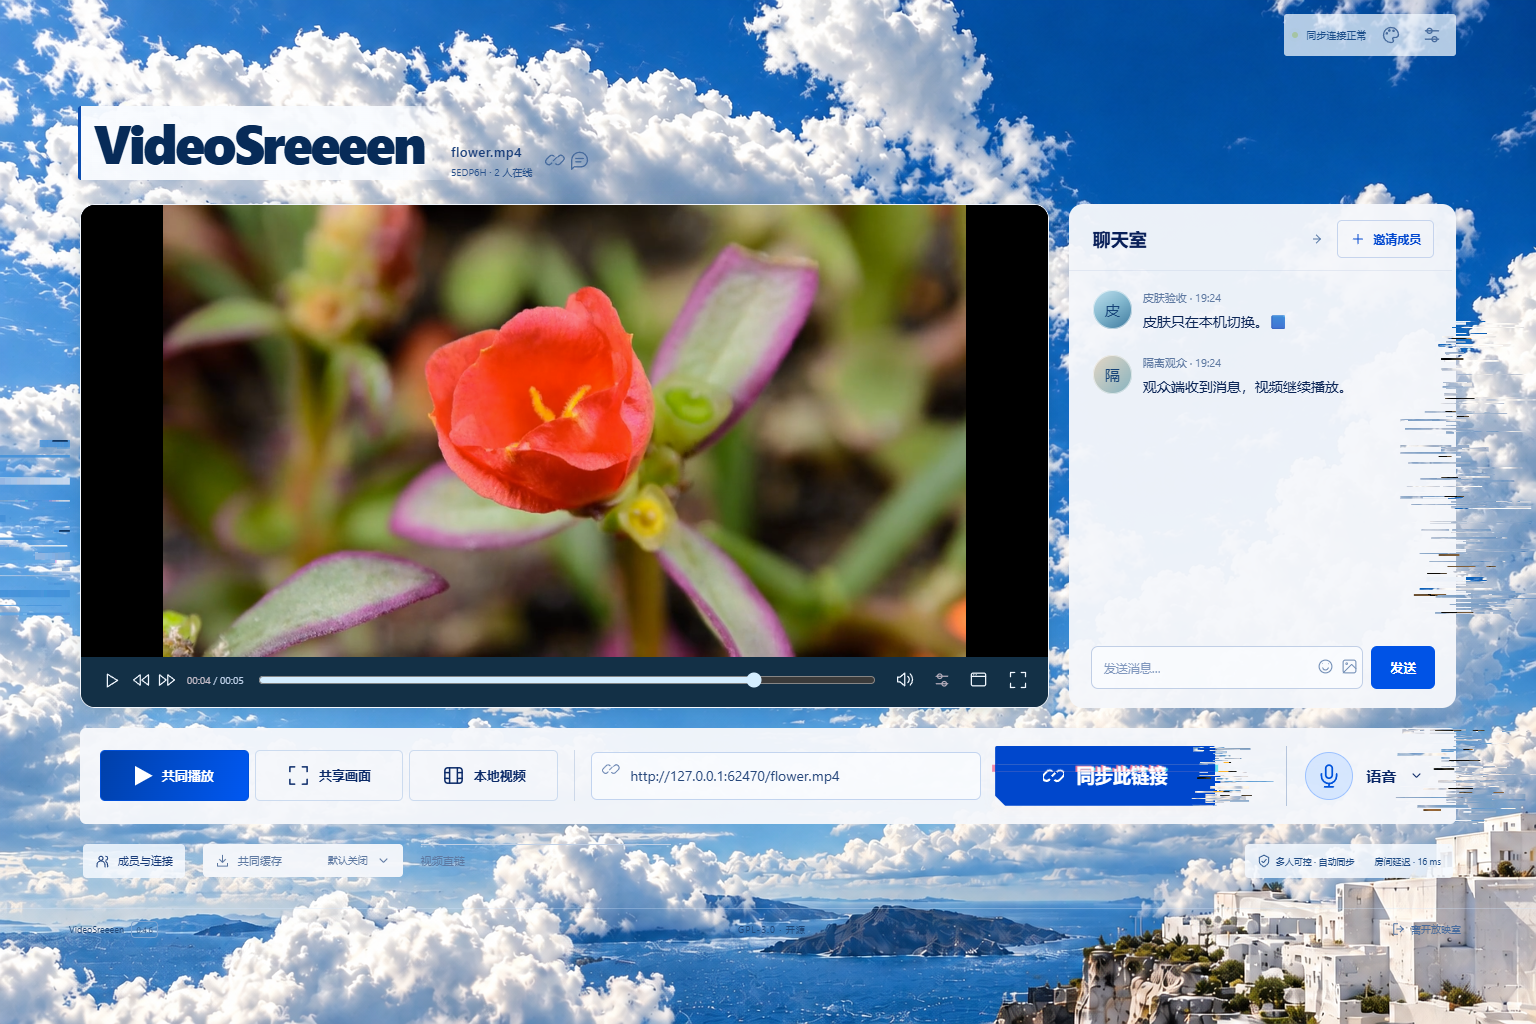
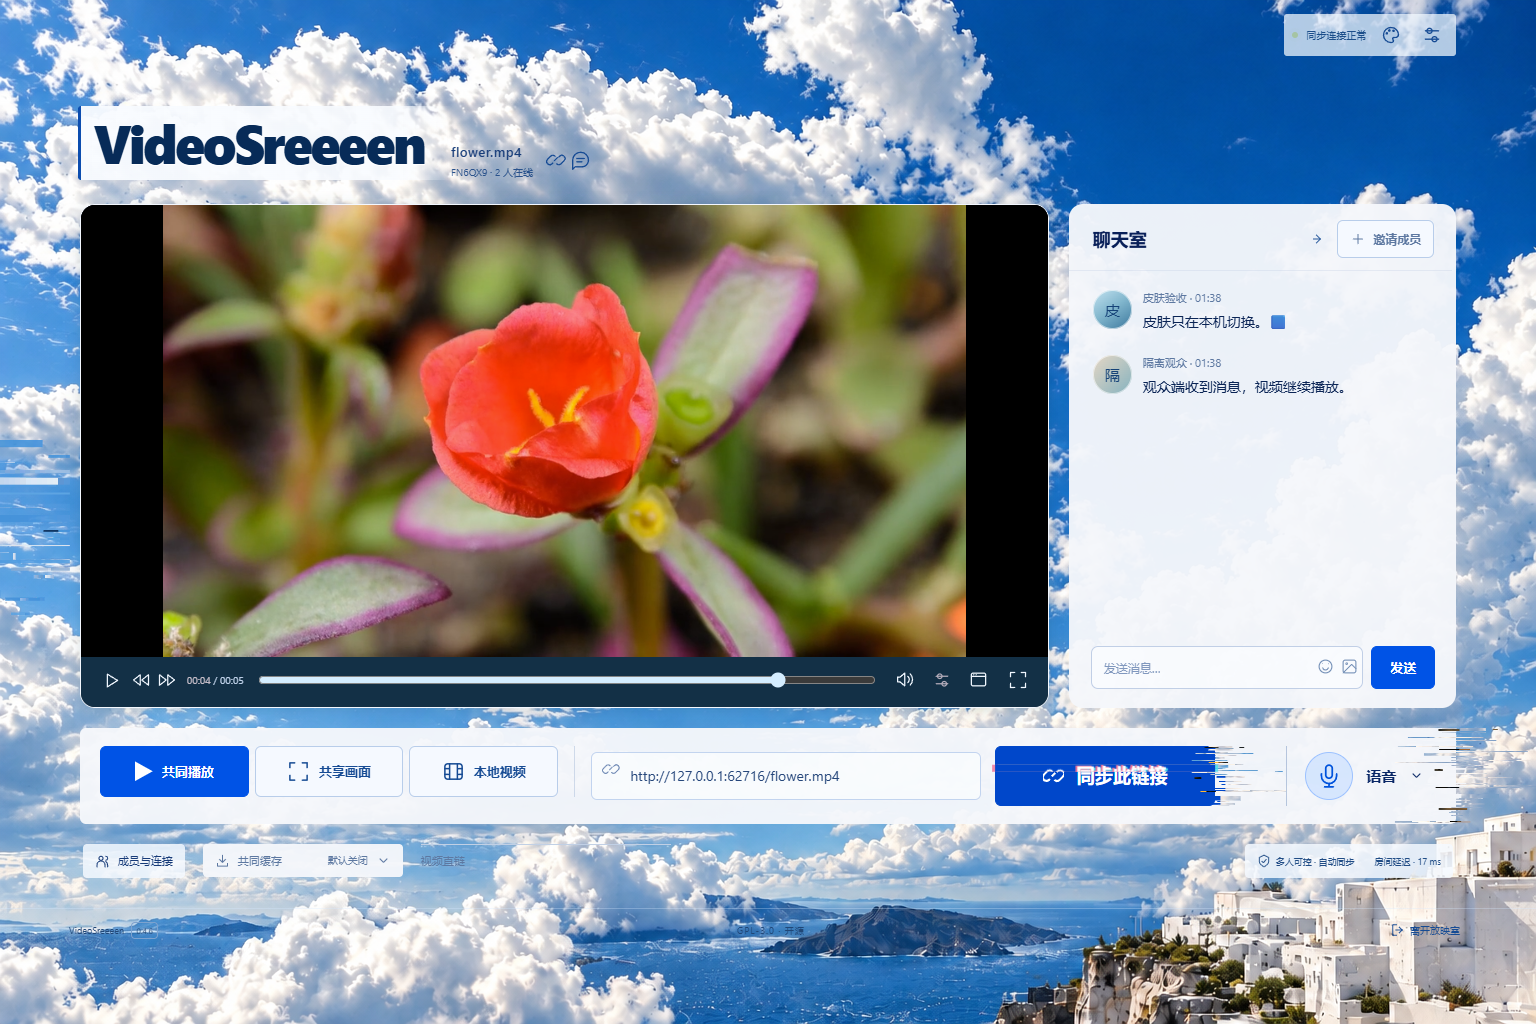
Unify Daylight controls and simplify theme option labels

diff --git a/scripts/daylight-controls-check.ts b/scripts/daylight-controls-check.ts
@@ -1,0 +1,160 @@
+import assert from 'node:assert/strict';
+import { once } from 'node:events';
+import { mkdir, writeFile } from 'node:fs/promises';
+import { chromium } from 'playwright';
+import { createApp } from '../server/index';
+import { closeInvitation } from './room-ui';
+
+const app = process.env.VS_PUBLIC_URL ? undefined : createApp();
+if (app) {
+  app.server.listen(0, '127.0.0.1');
+  await once(app.server, 'listening');
+}
+const origin =
+  process.env.VS_PUBLIC_URL || `http://127.0.0.1:${(app!.server.address() as any).port}`;
+const browser = await chromium.launch({
+  executablePath: 'C:/Program Files (x86)/Microsoft/Edge/Application/msedge.exe',
+  headless: true,
+  args: ['--mute-audio', '--disable-extensions', '--js-flags=--max-old-space-size=96'],
+  ...(process.env.VS_TEST_PROXY
+    ? { proxy: { server: process.env.VS_TEST_PROXY, bypass: 'localhost,127.0.0.1' } }
+    : {}),
+});
+const proof: any = {
+  at: new Date().toISOString(),
+  production: !!process.env.VS_PUBLIC_URL,
+  realPhone: false,
+  controls: [],
+  widths: [],
+};
+try {
+  const context = await browser.newContext({ viewport: { width: 1536, height: 1024 } });
+  await context.addInitScript(() => localStorage.setItem('videosreeeen.appearance', 'glitch'));
+  const page = await context.newPage();
+  const errors: string[] = [],
+    operations: string[] = [];
+  page.on('pageerror', (e) => errors.push(e.message));
+  page.on('websocket', (s) =>
+    s.on('framesent', ({ payload }) => {
+      try {
+        const m = JSON.parse(String(payload));
+        if (['media', 'control', 'mode', 'cache', 'unshare'].includes(m.type))
+          operations.push(m.type);
+      } catch {}
+    }),
+  );
+  await page.goto(origin);
+  await page.locator('#hero-create').click();
+  await page.locator('#name-input').fill('天光按钮验收');
+  await page.locator('#create-button').click();
+  await closeInvitation(page);
+  await page.evaluate(() => document.fonts.ready);
+  const inspect = async () => {
+    const styles = await page.locator('button, a.button').evaluateAll((nodes) =>
+      nodes
+        .filter((n) => n.checkVisibility() && !n.closest('.player-shell') && !n.matches('.switch'))
+        .map((n) => {
+          const s = getComputedStyle(n);
+          return {
+            id: n.id || n.getAttribute('data-close') || n.textContent?.trim().slice(0, 15),
+            radius: s.borderRadius,
+            border: s.borderWidth,
+            background: s.backgroundColor,
+            color: s.color,
+          };
+        }),
+    );
+    assert.ok(styles.length > 5);
+    for (const style of styles) assert.equal(style.radius, '6px', JSON.stringify(style));
+    proof.controls.push(...styles);
+  };
+  await page.mouse.move(1, 1);
+  await page.waitForTimeout(160);
+  await inspect();
+  const primary = ['#source-form .button', '#choose-link', '#send-button'];
+  for (const selector of primary) {
+    assert.equal(
+      await page.locator(selector).evaluate((n) => getComputedStyle(n).backgroundColor),
+      'rgb(0, 83, 230)',
+      selector,
+    );
+    await page.locator(selector).hover();
+    await page.waitForTimeout(180);
+    assert.equal(
+      await page.locator(selector).evaluate((n) => getComputedStyle(n).backgroundColor),
+      'rgb(0, 71, 202)',
+      selector,
+    );
+    await page.mouse.move(1, 1);
+    await page.waitForTimeout(160);
+  }
+  await page.locator('.daylight-voice > summary').click();
+  await inspect();
+  assert.equal(
+    await page.locator('#voice-join').evaluate((n) => getComputedStyle(n).backgroundColor),
+    'rgb(0, 83, 230)',
+  );
+  await page.locator('.daylight-voice > summary').click();
+  await page.locator('#invite-button').click();
+  await inspect();
+  await closeInvitation(page);
+  await page.locator('#appearance-button').click();
+  await inspect();
+  for (const [value, name] of [
+    ['glitch', '天光断层'],
+    ['signal', '紫电噪讯'],
+  ]) {
+    const choice = page.locator(`.theme-choice:has(input[value="${value}"])`);
+    assert.equal((await choice.locator('.theme-choice-name').innerText()).trim(), name);
+    assert.equal(await choice.locator('.theme-choice-name small').count(), 0);
+  }
+  await page.keyboard.press('Tab');
+  await page.locator('#appearance-random').focus();
+  assert.equal(
+    await page.locator('#appearance-random').evaluate((n) => getComputedStyle(n).outlineWidth),
+    '2px',
+  );
+  for (const width of [1536, 850, 390, 320]) {
+    await page.setViewportSize({ width, height: 1024 });
+    assert.equal(
+      await page.evaluate(() => document.documentElement.scrollWidth <= innerWidth),
+      true,
+    );
+    proof.widths.push(width);
+    await mkdir('.local/screenshots', { recursive: true });
+    if (width === 1536)
+      await page
+        .locator('#settings-dialog')
+        .screenshot({ path: '.local/screenshots/daylight-controls-settings.png' });
+  }
+  await page.locator('[data-close="settings-dialog"]').first().click();
+  await page.setViewportSize({ width: 1536, height: 1024 });
+  await page
+    .locator('#playback-picker')
+    .screenshot({ path: '.local/screenshots/daylight-controls-panel.png' });
+  assert.deepEqual(errors, []);
+  assert.deepEqual(operations, []);
+  proof.noRoomOperations = true;
+  proof.passed = true;
+  await page.locator('#leave-button').click();
+} catch (error) {
+  proof.error = String(error);
+  proof.passed = false;
+  throw error;
+} finally {
+  await browser.close();
+  await app?.close();
+  proof.browserClosed = true;
+  await writeFile(
+    `.local/daylight-controls-${process.env.VS_PUBLIC_URL ? 'public' : 'local'}-evidence.json`,
+    JSON.stringify(proof, null, 2) + '\n',
+  );
+  console.log(
+    JSON.stringify({
+      passed: proof.passed,
+      controls: proof.controls.length,
+      widths: proof.widths,
+      error: proof.error,
+    }),
+  );
+}

diff --git a/client/daylight-controls.css b/client/daylight-controls.css
@@ -1,0 +1,101 @@
+/* One control family; layout and touch targets remain owned by each component.
+   Playback controls keep their dark video surface and switches keep their shape. */
+:root[data-theme='glitch'] {
+  --daylight-control-radius: 6px;
+  --daylight-control-blue: #0053e6;
+  --daylight-control-ink: #164b94;
+  --daylight-control-line: #b8cdea;
+  --daylight-control-surface: #f5f9ff;
+  --daylight-control-hover: #e1edff;
+}
+:root[data-theme='glitch']
+  :is(button, a.button):not(
+    :where(.transport *, .stage-tools *, .player-settings-panel *, .switch)
+  ) {
+  border: 1px solid transparent;
+  border-radius: var(--daylight-control-radius);
+  background: transparent;
+  color: var(--daylight-control-ink);
+  box-shadow: none;
+  transition:
+    background-color 120ms ease,
+    border-color 120ms ease,
+    color 120ms ease;
+}
+:root[data-theme='glitch']
+  :is(.button, .playback-tabs button, .room-tabs button, .site-chips button)
+  :where(svg) {
+  flex-shrink: 0;
+}
+:root[data-theme='glitch']
+  :is(
+    .button,
+    .playback-tabs button,
+    .room-tabs button,
+    .site-chips button,
+    .chat-restore,
+    .invite-line
+  ):not(:where(.transport *, .stage-tools *, .player-settings-panel *)) {
+  border-color: var(--daylight-control-line);
+  background: var(--daylight-control-surface);
+  color: var(--daylight-control-ink);
+}
+:root[data-theme='glitch']
+  :is(
+    .accent,
+    .send-button,
+    .playback-tabs button[aria-selected='true'],
+    .room-tabs button[aria-pressed='true']
+  ):not(:where(.transport *, .stage-tools *, .player-settings-panel *)) {
+  background: var(--daylight-control-blue);
+  border-color: var(--daylight-control-blue);
+  color: #fff;
+}
+:root[data-theme='glitch']
+  :is(button, a.button):not(
+    :where(.transport *, .stage-tools *, .player-settings-panel *, .switch)
+  ):hover:not(:disabled) {
+  background: var(--daylight-control-hover);
+  border-color: #86afe7;
+  color: #003fb5;
+}
+:root[data-theme='glitch']
+  :is(
+    .accent,
+    .send-button,
+    .playback-tabs button[aria-selected='true'],
+    .room-tabs button[aria-pressed='true']
+  ):hover:not(:disabled) {
+  background: #0047ca;
+  border-color: #0047ca;
+  color: #fff;
+}
+:root[data-theme='glitch']
+  :is(button, a.button):not(
+    :where(.transport *, .stage-tools *, .player-settings-panel *, .switch)
+  ):focus-visible {
+  outline: 2px solid var(--daylight-control-blue);
+  outline-offset: 3px;
+}
+:root[data-theme='glitch'] .voice-actions :is(.active, .is-muted) {
+  background: #d9e7fb;
+  color: var(--daylight-control-ink);
+  border-color: #9dbce8;
+}
+:root[data-theme='glitch'] .switch {
+  background: #bdcde3;
+}
+:root[data-theme='glitch'] .switch[aria-checked='true'] {
+  background: var(--daylight-control-blue);
+}
+:root[data-theme='glitch'] :is(button, a.button):disabled {
+  opacity: 0.45;
+}
+:root[data-theme='glitch'] dialog .theme-choice {
+  border-radius: var(--daylight-control-radius);
+}
+@media (prefers-reduced-motion: reduce) {
+  :root[data-theme='glitch'] :is(button, a.button) {
+    transition: none;
+  }
+}

diff --git a/client/appearance.ts b/client/appearance.ts
@@ -9,8 +9,8 @@ const preferenceKey = 'videosreeeen.appearance';
 const sessionKey = 'videosreeeen.appearance.session';
 const names: Record<Theme, string> = {
   classic: '暖夜 · 原版',
-  glitch: '天光断层 · Glitch Art',
-  signal: '紫电噪讯 · C',
+  glitch: '天光断层',
+  signal: '紫电噪讯',
 };
 const valid = (value: string | null): value is Theme => themes.includes(value as Theme);
 function read(kind: 'localStorage' | 'sessionStorage', key: string) {
@@ -85,8 +85,8 @@ export function setupAppearance(settings: HTMLElement) {
       <div class="appearance-heading"><h3 id="appearance-title">界面皮肤</h3><span>仅本机</span></div>
       <fieldset class="theme-choices"><legend class="theme-sr-only">选择界面皮肤</legend>
         <label class="theme-choice"><input type="radio" name="appearance" value="classic"><span class="theme-swatch theme-swatch-classic" aria-hidden="true"><i></i><b></b><em></em></span><span class="theme-choice-name">暖夜 <small>原版</small></span></label>
-        <label class="theme-choice"><input type="radio" name="appearance" value="glitch"><span class="theme-swatch theme-swatch-glitch" aria-hidden="true"><i></i><b></b><em></em></span><span class="theme-choice-name">天光断层 <small>Glitch Art</small></span></label>
-        <label class="theme-choice"><input type="radio" name="appearance" value="signal"><span class="theme-swatch theme-swatch-signal" aria-hidden="true"><i></i><b></b><em></em></span><span class="theme-choice-name">紫电噪讯 <small>C · 反相故障</small></span></label>
+        <label class="theme-choice"><input type="radio" name="appearance" value="glitch"><span class="theme-swatch theme-swatch-glitch" aria-hidden="true"><i></i><b></b><em></em></span><span class="theme-choice-name">天光断层</span></label>
+        <label class="theme-choice"><input type="radio" name="appearance" value="signal"><span class="theme-swatch theme-swatch-signal" aria-hidden="true"><i></i><b></b><em></em></span><span class="theme-choice-name">紫电噪讯</span></label>
       </fieldset>
       <div class="appearance-auto"><span id="appearance-status" role="status"></span><button id="appearance-random" type="button" class="text-button" title="重新随机选择皮肤；未手动选择时，新标签页自动分配">随机选择</button></div>
     </section>`,

diff --git a/client/daylight.css b/client/daylight.css
@@ -250,11 +250,8 @@
   flex: 0 0 auto;
   font-size: 12px;
   font-weight: 650;
-  color: #0047cf;
   width: auto;
   margin: 0;
-  border: 1px solid #c6d4ed;
-  border-radius: 5px;
   padding: 10px 12px;
   gap: 7px;
 }
@@ -465,20 +462,6 @@
   position: relative;
   isolation: isolate;
   font-size: 18px;
-  background: transparent;
-}
-:root[data-theme='glitch'] #source-form .button::before {
-  content: '';
-  position: absolute;
-  inset: 0;
-  z-index: -1;
-  pointer-events: none;
-  background: linear-gradient(110deg, #0044bd, #0058f5);
-  border-radius: 2px;
-  clip-path: polygon(0 0, 100% 0, 100% 100%, 10px 100%, 0 calc(100% - 10px));
-}
-:root[data-theme='glitch'] #source-form .button:hover::before {
-  background: #0047cc;
 }
 :root[data-theme='glitch'] .active-source {
   grid-column: 1 / -1;

diff --git a/client/appearance-fracture.ts b/client/appearance-fracture.ts
@@ -430,21 +430,13 @@ function controlPlate(button: HTMLElement, burst: GlitchBurst, surface: string) 
   p.scale(ratio, ratio);
   p.fillStyle = surface;
   p.beginPath();
-  if (button.matches('#source-form .button')) {
-    p.moveTo(0, 0);
-    p.lineTo(box.width, 0);
-    p.lineTo(box.width, box.height);
-    p.lineTo(10, box.height);
-    p.lineTo(0, box.height - 10);
-    p.closePath();
-  } else
-    p.roundRect(
-      0,
-      0,
-      box.width,
-      box.height,
-      Math.min(10, Number.parseFloat(style.borderRadius) || 2),
-    );
+  p.roundRect(
+    0,
+    0,
+    box.width,
+    box.height,
+    Math.min(10, Number.parseFloat(style.borderRadius) || 2),
+  );
   p.fill();
   const walker = document.createTreeWalker(button, NodeFilter.SHOW_TEXT, {
     acceptNode(node) {

diff --git a/client/themes.css b/client/themes.css
@@ -1,5 +1,6 @@
 @import './daylight.css';
 @import './signal.css';
+@import './daylight-controls.css';
 
 :root:is([data-theme='glitch'], [data-theme='signal']) .workspace:has(#sidebar[hidden]) {
   grid-template-columns: minmax(0, 1fr);

diff --git a/docs/verification-daylight-controls.md b/docs/verification-daylight-controls.md
@@ -1,0 +1,18 @@
+# 2026-11-01 天光控件统一
+
+用户反馈天光断层不同区域的按钮不一致，并要求去掉主题选择中“Glitch Art”和“C · 反相故障”。原有同步按钮使用单独的切角底板，邀请按钮有独立的 ID 样式，播放选项、弹窗与其他按钮又各自设置圆角和颜色。
+
+新增 `client/daylight-controls.css` 作为天光控件统一入口：圆角 6 px，主按钮及选中项使用同一蓝色和白字，次按钮使用相同浅色底 / 描边，轻操作使用透明底及同一蓝色文字。统一悬停、键盘焦点、禁用状态；保留主次操作、图标与切换控件的尺寸层级。移除同步按钮的专用切角底板和邀请按钮的独立描边，断层绘制读取真实控件圆角。播放器深色控制层继续保留可读的浅色图标，开关、语音状态与减少动态效果设置保留。
+
+主题选项和入口的可访问名称分别为“天光断层”“紫电噪讯”，不再包含英文副标题或 C 设计代号；暖夜的“原版”提示保留。
+
+![天光统一按钮](screenshots/daylight-controls-panel.png)
+
+## 验证
+
+- 构建和类型检查通过；`test:daylight-controls` 在独立静音 Edge / 独立房间检查四个区域，共 66 次控件样式观察，确认主按钮及选中项蓝色、次 / 轻操作颜色、6 px 圆角、悬停及键盘焦点；核对两个主题副标题确实从 DOM 删除。1536、850、390、320 px 无横向溢出，未提交媒体、缓存、模式或播放控制操作。
+- `test:appearance` 完整回归通过：真实合成双端视频持续播放、切换主题不重载播放器、语音接收保持、聊天及侧栏收起恢复；随机分配与本机记忆、窄屏、缩放、全屏、强制配色与减少动态效果通过。
+- 原有 50% 悬停触发、重入随机变化、文字 / 图标同源断层、多个按钮的动态条片、背景取样和视频保护通过。视频像素保护、输入框保护及真实控件边界稳定都有断言；没有为样式统一新增持续闪烁或复制媒体。
[1 lines of base64/hex data omitted]
+
+重复入口为 `npm run test:daylight-controls` 和 `npm run test:appearance`，经受控入口串行执行。原始记录为 `.local/daylight-controls-local-evidence.json` 与 `.local/appearance-evidence.json`；桌面浏览器响应式检查不称为手机真机验证。发布回执另记录正式入口哈希与健康检查；不操作用户观影房间或主动刷新页面，不更新房间后端。

diff --git a/docs/verification.md b/docs/verification.md
@@ -1,5 +1,7 @@
 # 0.4.0 验证记录
 
+2026-11-01 天光按钮视觉统一及主题选项副标题删除，见[控件统一验收](verification-daylight-controls.md)。
+
 2026-11-01 播放方式按钮随错误提示被拉高的修正，以及三主题 / 响应式布局检查，见[播放方式按钮布局](verification-playback-tabs-layout.md)。
 
 2026-11-01 B 站大合集视频响应超过 512 KiB 限制的调查、助手 0.1.2 修复及验证，见[大合集响应大小验收](verification-bilibili-metadata-size.md)。
